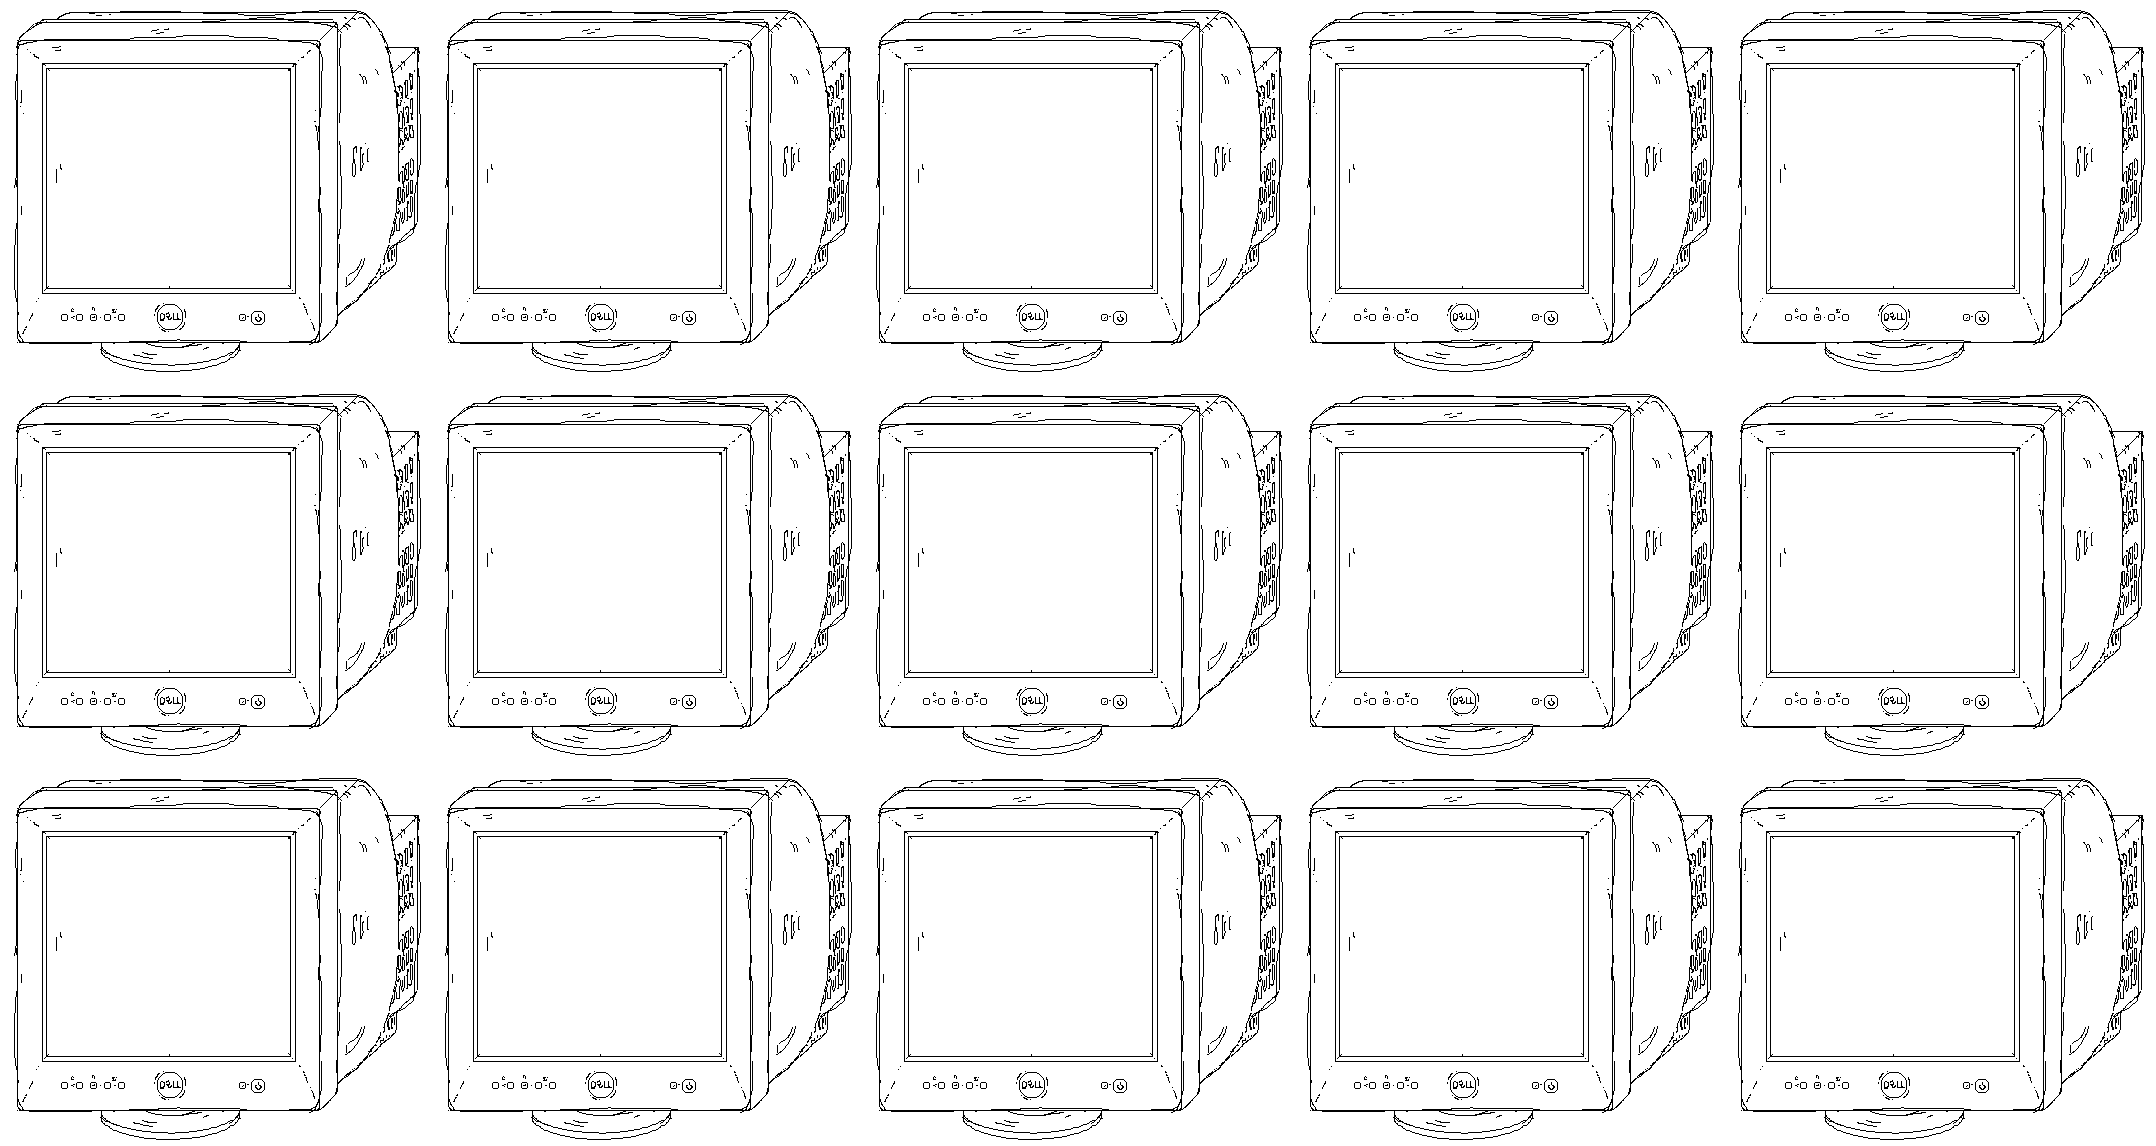
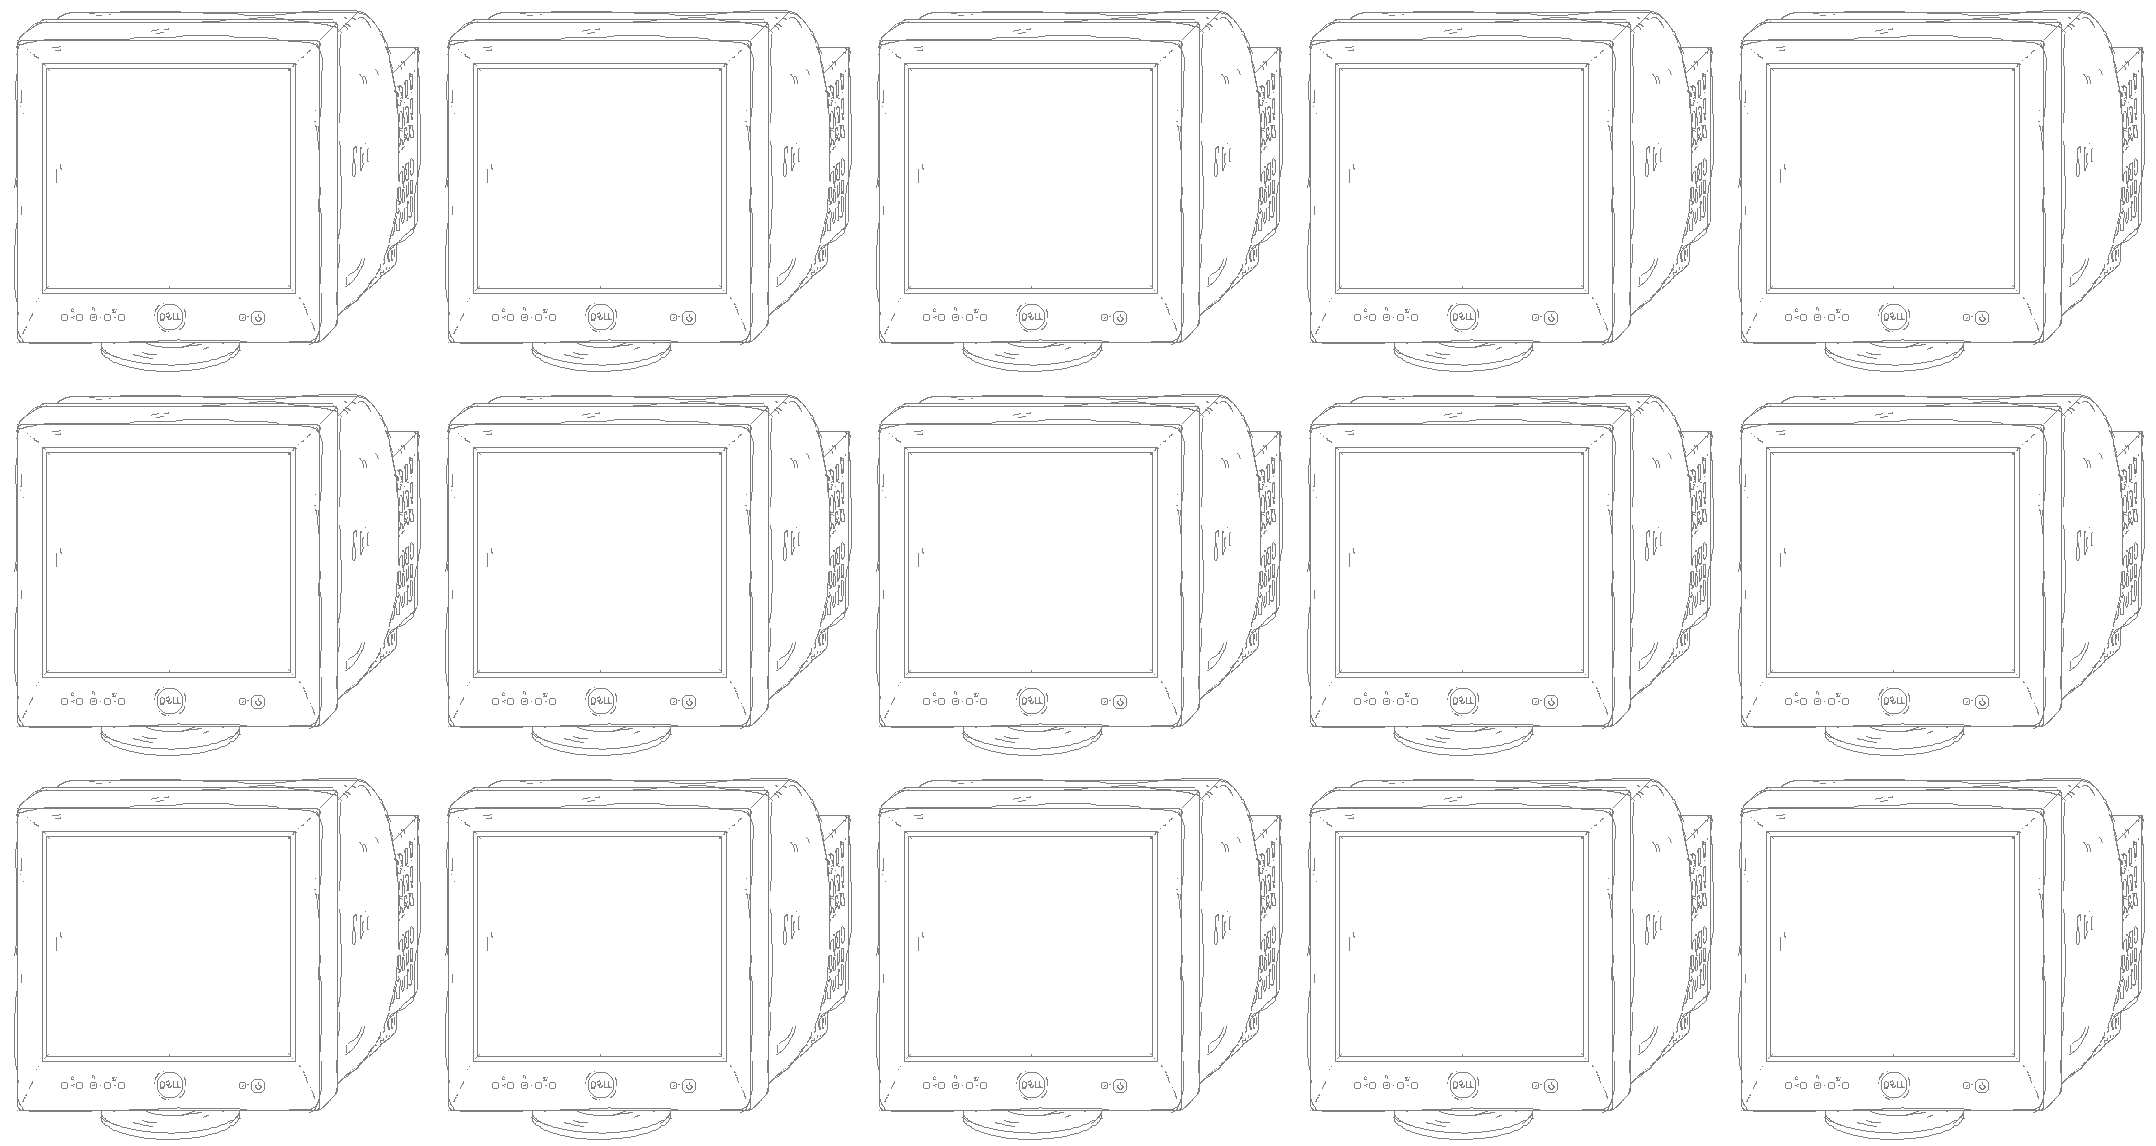
background and lines

diff --git a/style.css b/style.css
@@ -1,13 +1,21 @@
 body {
+/*    background-image: url("/assets/monitor-tiling.png");
+    background-repeat: repeat; */
+    background-color: rgb(177, 133, 106);  
+}
+
+.background {
     background-image: url("/assets/monitor-tiling.png");
     background-repeat: repeat;
-    min-height: auto;
-    min-width: auto;
-    display: block;
-    background-color: #b1856a;
+    background-color: rgb(177, 133, 106);
+    min-height: 100%;
+    min-width: 100%;
+    z-index: -1;
 }
+
 h1 {
     color: #644334;
+    background-color: #bd9d879a;
     text-align: center;
     font-family: 'Courier New', Courier, monospace;
     font-weight: 250;
@@ -17,6 +25,7 @@ h1 {
 
 h2 {
     color: rgb(100, 67, 52);
+    background-color: #bd9d879a;
     text-align: left;
     font-family: 'Courier New', Courier, monospace;
     font-weight: 150;
@@ -25,6 +34,7 @@ h2 {
 
 p {
     color: rgb(235, 211, 181);
+    background-color: #bd9d879a;
     text-align: left;
     font-family: 'Courier New', Courier, monospace;
     font-weight: 100;
@@ -34,6 +44,7 @@ p {
 footer {
     position: fixed; bottom: 2em; right: 2em;
     color: rgb(235, 211, 181);
+    background-color: #bd9d879a;
     font-family: 'Courier New', Courier, monospace;
     font-weight: 100;
     font-size: 15px;
@@ -52,13 +63,14 @@ hr.custom {
     margin: 15px 0;
 }
 
-hr.custom.large {
+hr.large {
     background:#644334;
-    height: 15px;
+    height: 20px;
 }
 
-hr.custom.blue {
-    background: blue;
+hr.medium {
+    background:#87674b;
+    height: 15px;
 }
 
 hr.custom.green {

diff --git a/images.html b/images.html
@@ -1,6 +1,9 @@
 <style type="text/css">
     .center { text-align: center; }
     </style>
+
+<div class="background">
+
 <head>
     <link href="style.css" rel="stylesheet">
     <title>Cardboard Computer</title>
@@ -16,16 +19,16 @@
     </span>
 </a>
 
-    <h2>Intentions</h2>
+    <h2>Images</h2>
     <p> Explaining how I do things and also why lorem ipsem.</p>
 </body>
     <hr>
-    <hr class="custom large">
-    <hr class="custom blue">
-    <hr class="custom green">
+    <hr class="large">
+    <hr class="medium">
+    <hr class="green">
 
 <img src="./assets/fractured-screenshot.png" height="500">
 <img src="./assets/monitor_transparent.png" height="550">
 
-
+</div>
 <footer>Moira R. Crombie</footer>

diff --git a/home.html b/home.html
@@ -1,3 +1,5 @@
+<div class="background">
+
 <head>
     <link href="style.css" rel="stylesheet">
     <title>Cardboard Computer</title>
@@ -23,9 +25,9 @@
 
 <a href="images.html">
     <span>
-        please take me to see some images
+       <p>please take me to see some images</p>
     </span>
 </a>
-
+</div>
 
 <footer>Moira R. Crombie</footer>
